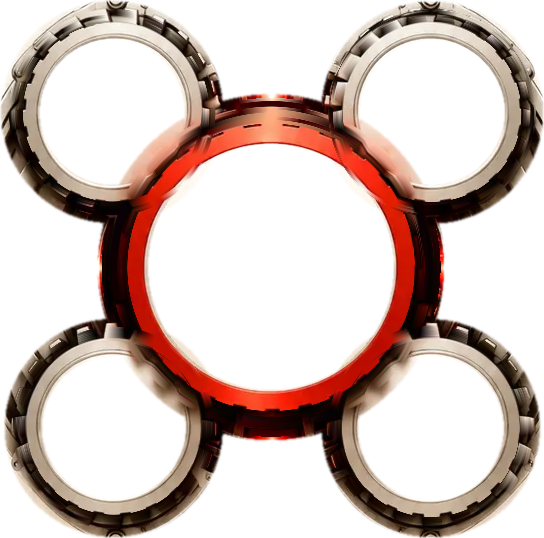
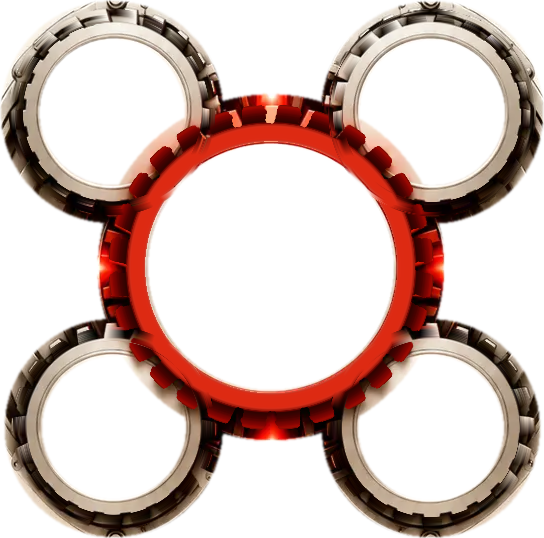
Machine animation: restore the gear rig that worked, keep two targeted fixes
The last three rounds of gear changes (art-cut red and silver gears,
reworked fills) made the turn worse: a white band circled the silver
gears and their teeth appeared left behind. Comparing every recent
version frame by frame showed the original gear rig (as of dd5363f) was
the best; its later problems came from a variable mix-up, since fixed.

So the gear rig section is restored exactly, with two targeted fixes:
- nothing static is drawn over the red gear, so its top and bottom no
  longer stay behind while it turns;
- a still copy of the logo plate sits in front of the silver gears, whose
  rings reach just behind the plate's edge and would otherwise swing out
  over it as they turn (pale streaks on the inner rim).

Claude-Session: https://claude.ai/code/session_01PbAnrJaT2h2NzokuXUFqJZ

Changed region(s): [[0.1875, 0.1784, 0.8125, 0.8327]]

diff --git a/tools/machine/build_machine.py b/tools/machine/build_machine.py
@@ -694,17 +694,11 @@ def build(kind, cfg):
         Pred, _, _ = polar(redness, g["c"], g["band"][0], g["band"][1], nth)
         T, mad, per = fold_template(P, g["N"])
         if g["red"]:
-            # the tooth shape every tooth shares, from the art's bright red
-            # (the median over all teeth ignores the shaft glows and the dark
-            # red interior seen between the teeth)
-            cr, cg_, cb = clean[..., 0], clean[..., 1], clean[..., 2]
-            real = np.clip((cr - np.maximum(cg_, cb) - 60) / 50, 0, 1) * np.clip((cr - 110) / 40, 0, 1)
-            Pa, _, _ = polar(real.astype(np.float32), g["c"], g["band"][0], g["band"][1], nth)
-            Ta, _, _ = fold_template(Pa[..., None], g["N"])
-            alpha_t = (Ta[..., 0] > 0.5).astype(np.float32)
-            alpha_t[rs < g["band"][0] + 8] = 1
+            Tred, _, _ = fold_template(Pred[..., None], g["N"])
+            alpha_t = np.clip(Tred[..., 0] * 1.6, 0, 1)
+            # the inner solid band of the ring is always opaque
+            alpha_t[rs < g["band"][0] + 10] = 1
             tooth = alpha_t > 0.5
-            g["real"] = real
         else:
             # In the median tooth the metal is bright and the gaps (whatever
             # lies behind them, averaged) are dark, so brightness separates them.
@@ -717,13 +711,6 @@ def build(kind, cfg):
             alpha_t[rs < rs[toothy.min()]] = 1
             alpha_t *= np.clip((tip - rs) / 1.5, 0, 1)[:, None]
             tooth = alpha_t > 0.5
-            # silver only: red in the averaged tooth is the red gear's glow
-            # caught at the tooth edges, and would turn as a red fringe, so
-            # it becomes the same brightness in silver
-            red_t = T[..., 0] - np.maximum(T[..., 1], T[..., 2])
-            wr = np.clip((red_t - 50) / 30, 0, 1)[..., None]
-            lum_T = T.mean(-1, keepdims=True)
-            T = T * (1 - wr) + (lum_T * np.array([1.1, 1.0, 0.9])) * wr
         prepared.append((g, P, rs, th, T, alpha_t, tooth))
 
     # base: fill each band's teeth with what is behind them (red first, it is on top)
@@ -731,14 +718,22 @@ def build(kind, cfg):
         Pb, _, _ = polar(base, g["c"], rs[0], rs[-1] + 0.5, len(th))
         keep = ~cv2.dilate(tooth.astype(np.uint8), np.ones((3, 9), np.uint8)).astype(bool)
         if g["red"]:
-            # behind the gear is the machine's interior, lit red by the gear:
-            # carry the real interior seen in the gaps round the ring, never
-            # the teeth themselves (solid gear red, with a margin), which
-            # would stay still while the gear turns over them
-            Prb, _, _ = polar(redness, g["c"], rs[0], rs[-1] + 0.5, len(th))
-            gear_red = cv2.dilate(((Prb > 0.55) | tooth).astype(np.uint8), np.ones((5, 11), np.uint8)).astype(bool)
-            seen = ~gear_red
-            filled = fill_along_theta(Pb, seen)
+            # Behind the red teeth is the dark interior of the machine. The
+            # gaps also show bits of the function gears, which the grey rings
+            # redraw themselves, so use the plain interior tone per radius.
+            # sample only gaps away from the function gears: those show the
+            # warm, dark interior, not silver teeth
+            thg = np.linspace(0, 2 * np.pi, Pb.shape[1], endpoint=False)
+            px = g["c"][0] + rs[:, None] * np.cos(thg)[None]
+            py = g["c"][1] + rs[:, None] * np.sin(thg)[None]
+            clear = keep.copy()
+            for o in all_gears:
+                if not o["red"]:
+                    clear &= np.hypot(px - o["c"][0], py - o["c"][1]) > o["band"][1] + 4
+            masked = np.where(clear[..., None], Pb, np.nan)
+            tone = np.stack([np.nanmedian(masked[i], axis=0) if clear[i].any() else Pb[i].mean(0) for i in range(Pb.shape[0])])
+            tone = np.nan_to_num(tone, nan=50.0)
+            filled = np.where(keep[..., None], Pb, tone[:, None, :])
         else:
             filled = fill_along_theta(Pb, keep)
         r_out = g["band"][1] + 2
@@ -753,43 +748,9 @@ def build(kind, cfg):
     for g, P, rs, th, T, alpha_t, tooth in prepared:
         r_out = int(np.ceil(g["band"][1])) + 2
         box = (int(round(g["c"][0])) - r_out, int(round(g["c"][1])) - r_out, int(round(g["c"][0])) + r_out, int(round(g["c"][1])) + r_out)
-        if g["red"]:
-            # The red gear turns exactly once, so it needs no periodic tooth:
-            # it is the art's own gear, cut out by its red (the gaps clear),
-            # which stays as crisp as the art at every angle.
-            bx0, by0, bx1, by1 = box
-            sub = clean[by0:by1, bx0:bx1].astype(np.float32)
-            real = g["real"][by0:by1, bx0:bx1]
-            shape, inside = unpolar(alpha_t, g["c"], rs, th, (H, W), box)
-            shape = (np.where(inside, shape, 0) > 0.5).astype(np.float32)
-            # where a glow lies over the teeth (it stays put on the front
-            # layer), the turning gear takes its plain tooth colour instead
-            hot_p = (P.mean(-1) - T.mean(-1)) > 28
-            hot_p = ndi.binary_dilation(ndi.binary_opening(hot_p, np.ones((3, 3))), np.ones((5, 7))).astype(np.float32)
-            hot, _ = unpolar(hot_p, g["c"], rs, th, (H, W), box)
-            tcol, _ = unpolar(T, g["c"], rs, th, (H, W), box)
-            hot = np.clip(cv2.GaussianBlur(np.where(inside, hot, 0).astype(np.float32), (0, 0), 1.5), 0, 1)
-            # the outline is the shared tooth shape everywhere; the colour is
-            # the art's where its gear shows, the plain tooth where something
-            # sat in front of it (the shafts) or a glow lay over it
-            w = np.clip(cv2.GaussianBlur((real > 0.6).astype(np.float32), (0, 0), 1.0), 0, 1) * (1 - hot)
-            rgb = sub * w[..., None] + tcol * (1 - w[..., None])
-            a = np.clip(cv2.GaussianBlur(shape, (0, 0), 0.6), 0, 1)
-        else:
-            # A function gear is also the art's own gear: the shared tooth
-            # outline, the art's metal wherever it shows, and the median
-            # tooth only where the red gear hides it (where they mesh).
-            bx0, by0, bx1, by1 = box
-            sub = clean[by0:by1, bx0:bx1].astype(np.float32)
-            shape, inside = unpolar(alpha_t, g["c"], rs, th, (H, W), box)
-            shape = np.where(inside, shape, 0).astype(np.float32)
-            tcol, _ = unpolar(T, g["c"], rs, th, (H, W), box)
-            sy, sx = np.mgrid[by0:by1, bx0:bx1]
-            rc = red_cfg["c"]
-            hidden = (np.hypot(sx - rc[0], sy - rc[1]) < red_cfg["band"][1] + 3) | (redness[by0:by1, bx0:bx1] > 0.1)
-            w = np.clip(cv2.GaussianBlur((~hidden).astype(np.float32), (0, 0), 1.0), 0, 1)
-            rgb = sub * w[..., None] + tcol * (1 - w[..., None])
-            a = np.clip(cv2.GaussianBlur((shape > 0.5).astype(np.float32), (0, 0), 0.6), 0, 1)
+        rgb, inside = unpolar(T, g["c"], rs, th, (H, W), box)
+        a, _ = unpolar(alpha_t, g["c"], rs, th, (H, W), box)
+        a = np.where(inside, a, 0)
         layers[g["id"]] = (box, np.dstack([rgb, a * 255]))
         gears.append({"id": g["id"], "N": g["N"], "c": [round(g["c"][0] - x0, 2), round(g["c"][1] - y0, 2)],
                       "box": [box[0] - x0, box[1] - y0, box[2] - box[0], box[3] - box[1]],
@@ -801,8 +762,8 @@ def build(kind, cfg):
     for g, P, rs, th, T, alpha_t, tooth in prepared:
         if g["red"]:
             # nothing static over the red gear: a frozen patch of it (the
-            # shaft flashes, with the teeth under them) would stay behind
-            # while the rest turns; the turning gear has the plain tooth there
+            # shaft flashes, with the teeth under them) stays behind while the
+            # rest turns
             continue
         dev = np.abs(P - T).max(-1)
         Pred, _, _ = polar(redness, g["c"], rs[0], rs[-1] + 0.5, len(th))
@@ -830,6 +791,11 @@ def build(kind, cfg):
             cart = np.where(near, 0, cart)
         front_a[by0:by1, bx0:bx1] = np.maximum(front_a[by0:by1, bx0:bx1], np.where(inside, cart, 0))
     # the outer radius of the red teeth band touches the shaft glows above/below:
+    # the logo plate sits in front of the function gears: their rings reach
+    # just behind its edge, and as they turn those parts would swing out over
+    # the plate, so a still copy of the plate stays on top
+    d_plate = np.hypot(xx - red_cfg["c"][0], yy - red_cfg["c"][1])
+    front_a = np.maximum(front_a, np.clip(red_cfg["band"][0] - 1 - d_plate, 0, 1))
     front = np.dstack([clean, np.clip(front_a, 0, 1) * 255])
 
     # rig crop: everything the gears can touch
@@ -840,9 +806,13 @@ def build(kind, cfg):
     rig_box = [rx0 - x0, ry0 - y0, rx1 - rx0, ry1 - ry0]
     # the base only needs to cover the bands (body shows everywhere else)
     band_union = np.zeros((H, W), np.float32)
+    d_red = np.hypot(xx - red_cfg["c"][0], yy - red_cfg["c"][1])
     for g in all_gears:
         d = np.hypot(xx - g["c"][0], yy - g["c"][1])
-        band_union = np.maximum(band_union, ((d >= g["band"][0] - 3) & (d <= g["band"][1] + 3)).astype(np.float32))
+        ring = (d >= g["band"][0] - 3) & (d <= g["band"][1] + 3)
+        if not g["red"]:
+            ring &= d_red >= red_cfg["band"][0]  # not over the logo plate
+        band_union = np.maximum(band_union, ring.astype(np.float32))
     band_union = cv2.GaussianBlur(band_union, (0, 0), 1.0)
     rig_base = np.dstack([base, band_union * 255])
     save_webp(os.path.join(out_dir, "rig-base.webp"), rig_base[ry0:ry1, rx0:rx1], 101)
